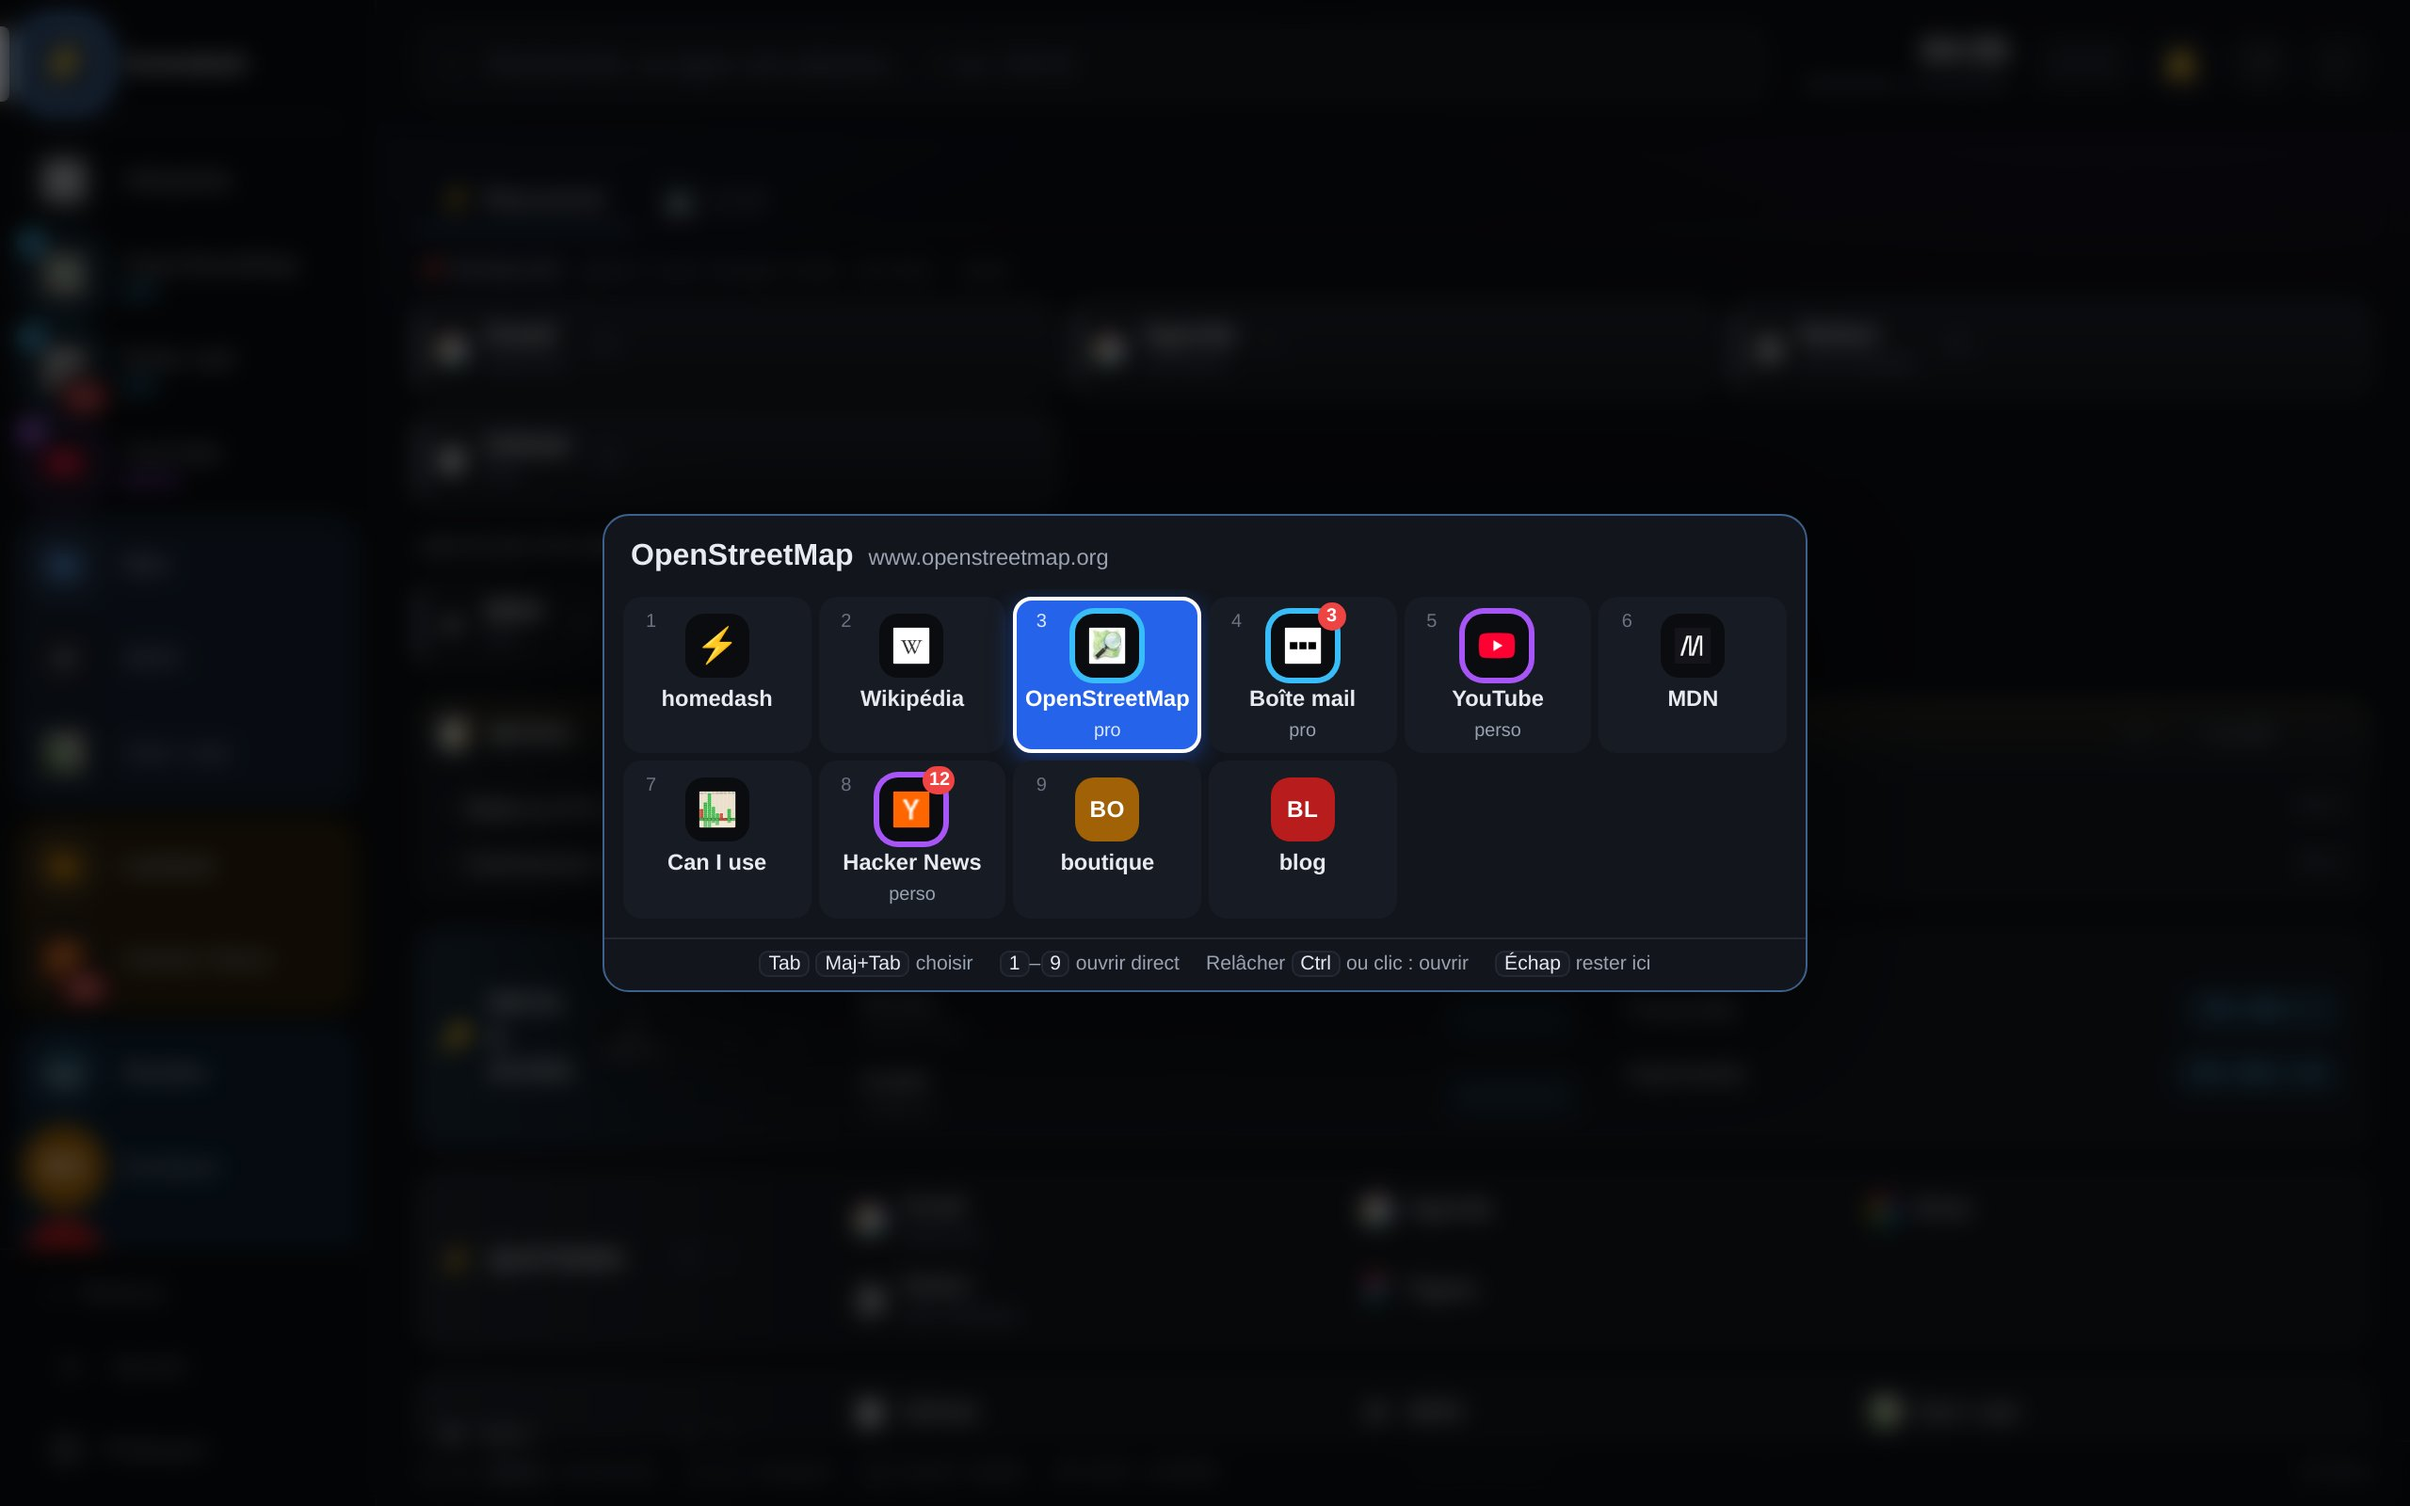
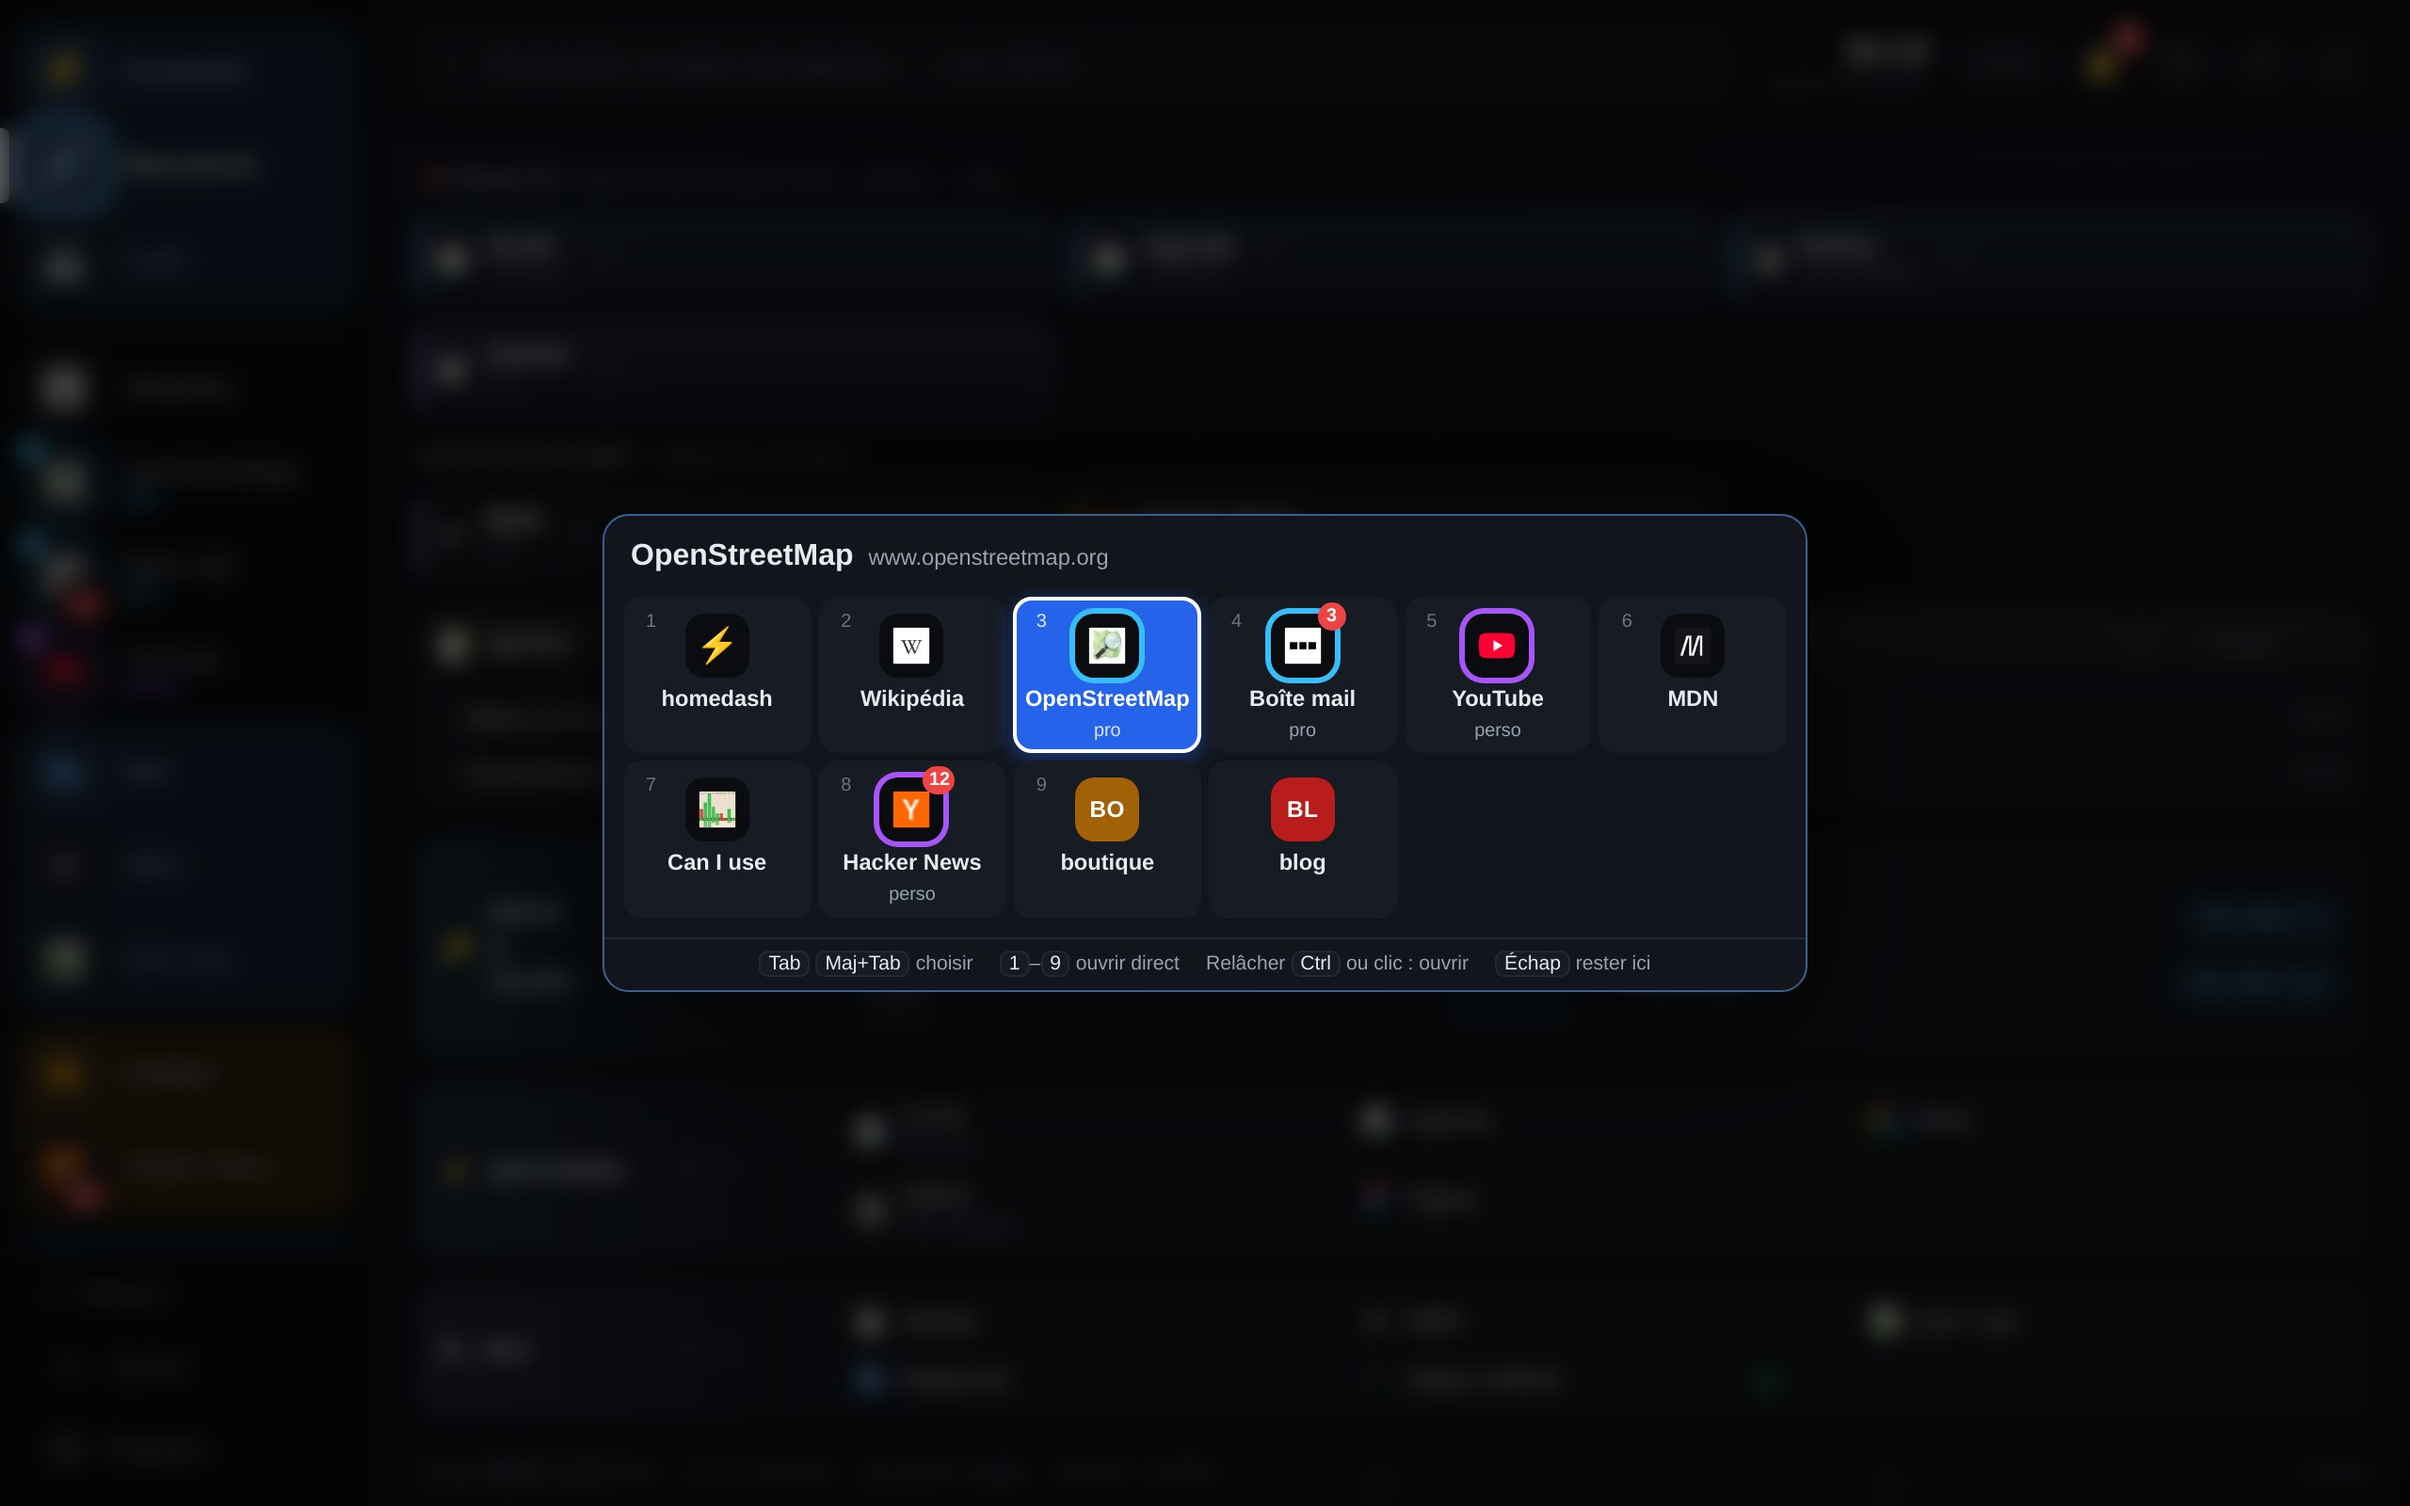
Captures : versionner la config de démo, refaire les captures (#136)
docs/demo/data/ était exclu par le .gitignore (data/ à tous les niveaux) :
capture.sh ne trouvait plus rien depuis le déménagement du clone. Config
fictive (équipe « acme », aucun jeton) reprise de data-demo/, carte « Pour
commencer » masquée ; capture.mjs trouve les onglets de homedash dans la
barre de gauche (défaut depuis la 2.x) comme en haut. Captures 2.5.0 refaites.

diff --git a/CHANGELOG-dev.md b/CHANGELOG-dev.md
@@ -2,3 +2,8 @@
 
 Où en est le dev : ce qui est fait sur les branches et pas encore publié. Ce fichier n'est pas livré dans
 l'appli et ne déclenche aucune version. Règles : `CLAUDE.md`, « À chaque livraison ».
+
+## paco/fix/demo-data
+
+- Outillage (rien de visible) : `docs/demo/data/`, la config fictive de l'instance de démo, est enfin versionnée
+  (`.gitignore` l'excluait avec tous les `data/`) ; `sh docs/demo/capture.sh` refait de nouveau les captures. Issue #136.
